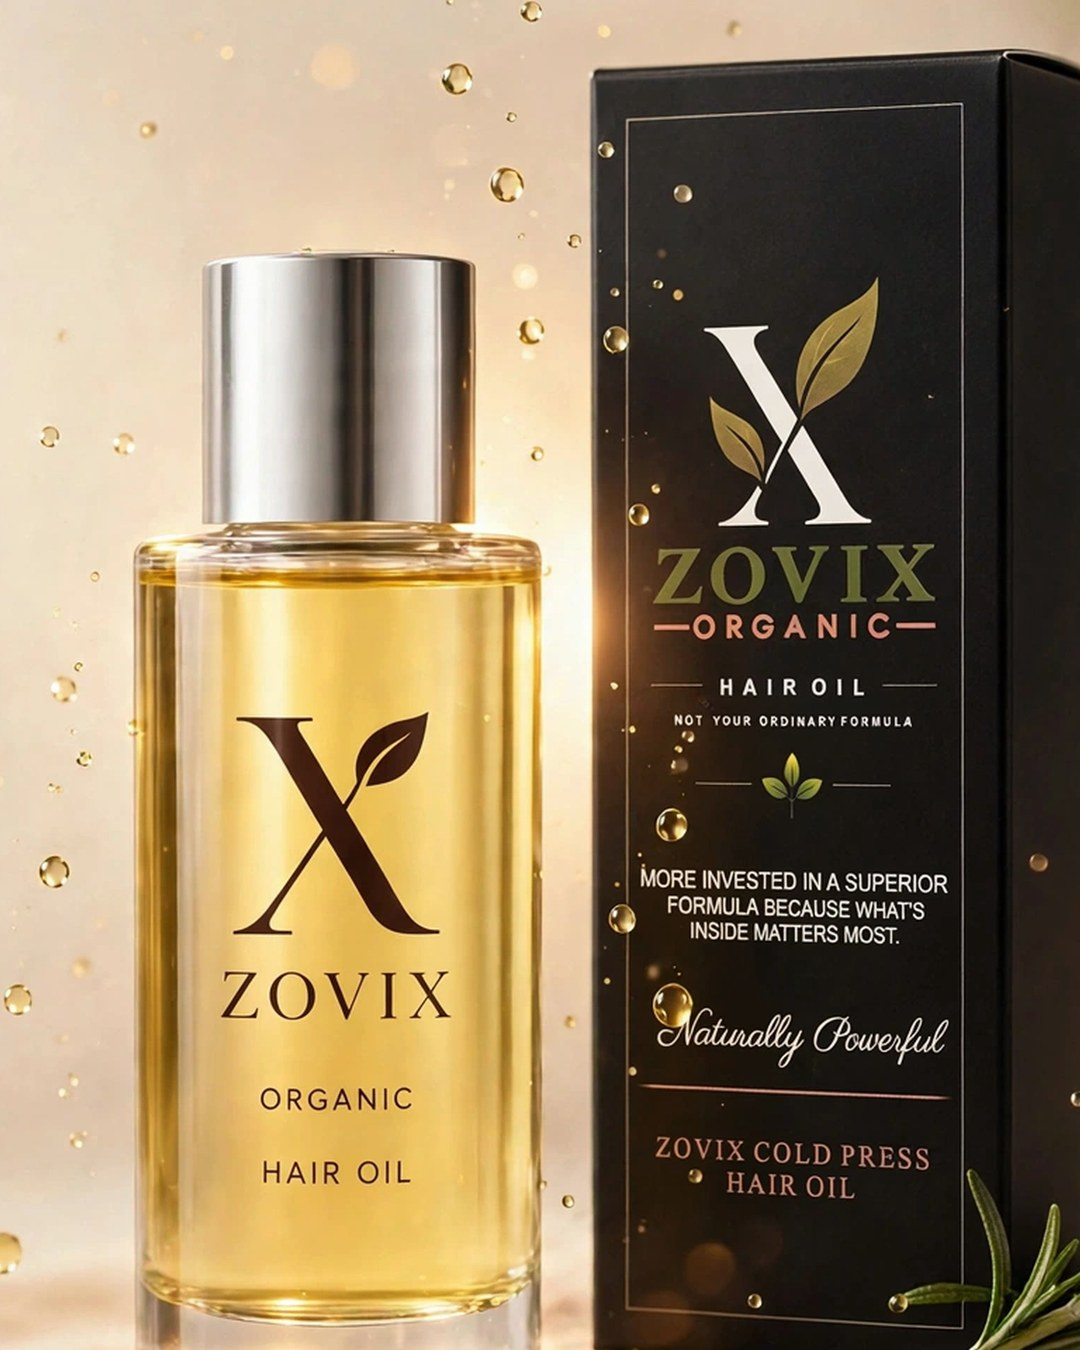
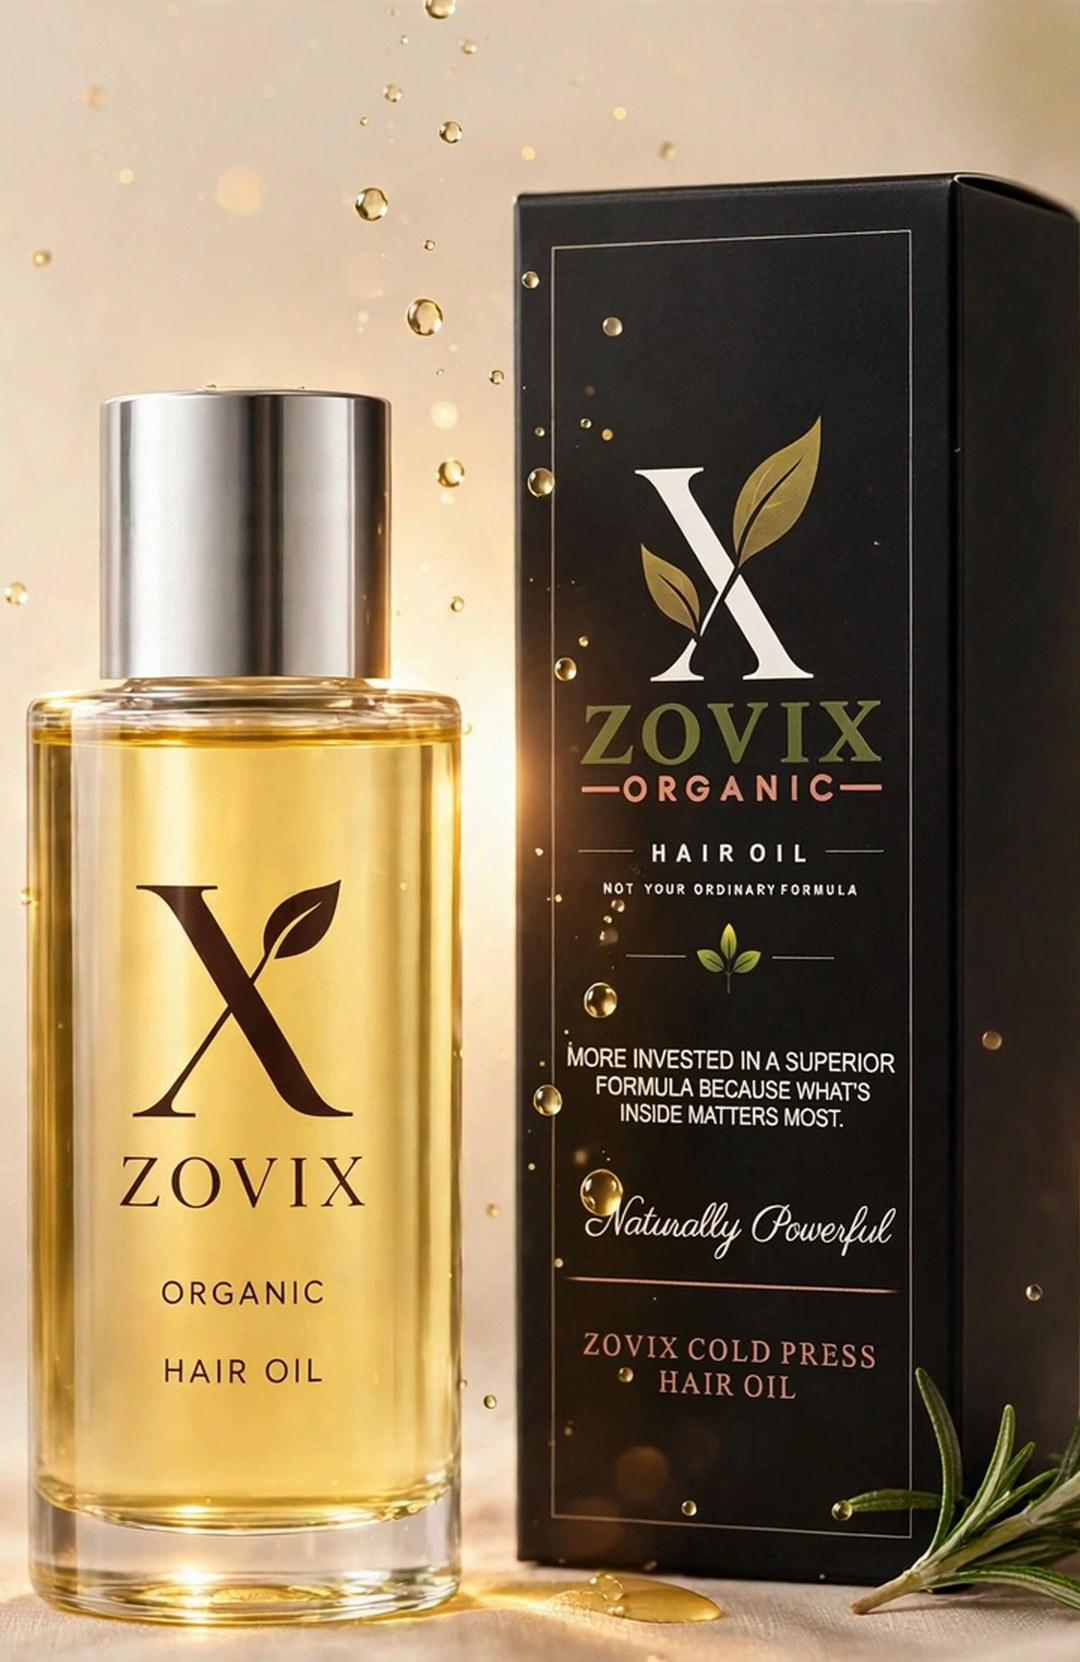
Mobile nav overlays page + wider hero crop

diff --git a/src/components/Navbar.tsx b/src/components/Navbar.tsx
@@ -60,7 +60,7 @@ export default function Navbar() {
       </div>
 
       {open && (
-        <nav className="border-t border-[#e8dfcd] bg-[#faf7f1] px-4 py-3 md:hidden">
+        <nav className="absolute inset-x-0 top-full border-b border-[#e8dfcd] bg-[#faf7f1]/85 px-4 py-3 shadow-lg backdrop-blur-md md:hidden">
           {LINKS.map((l) => (
             <a
               key={l.href}
